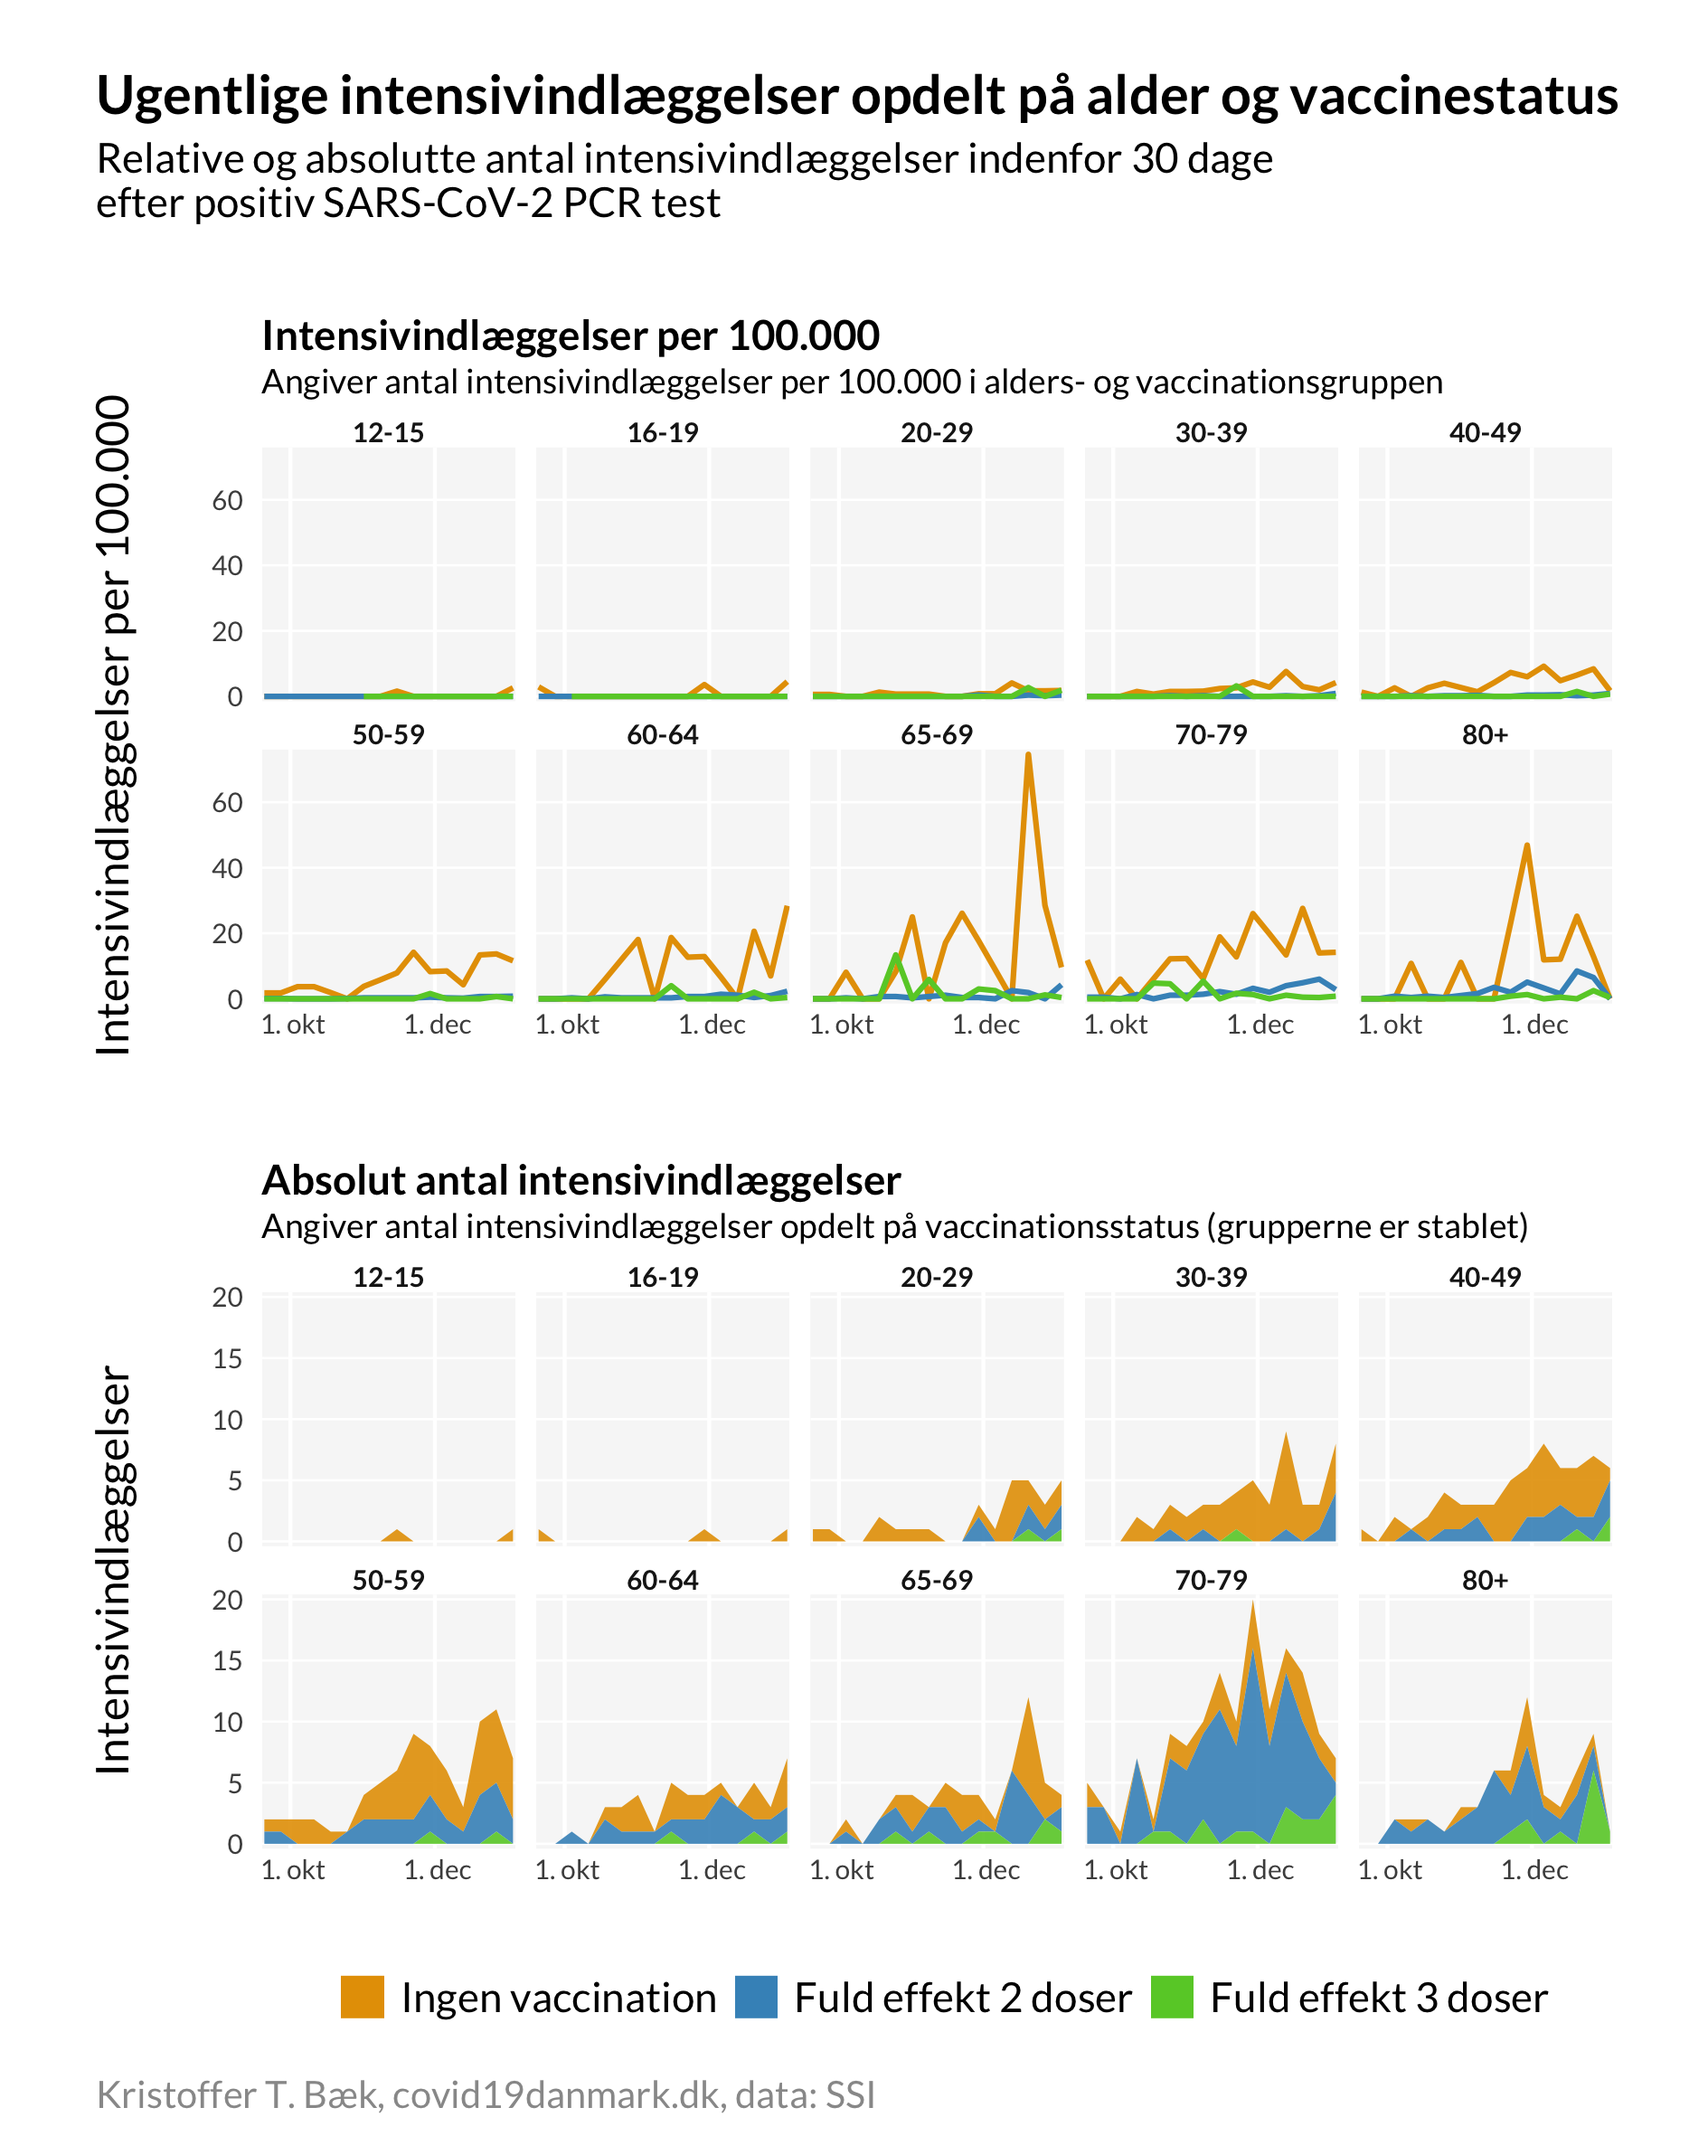
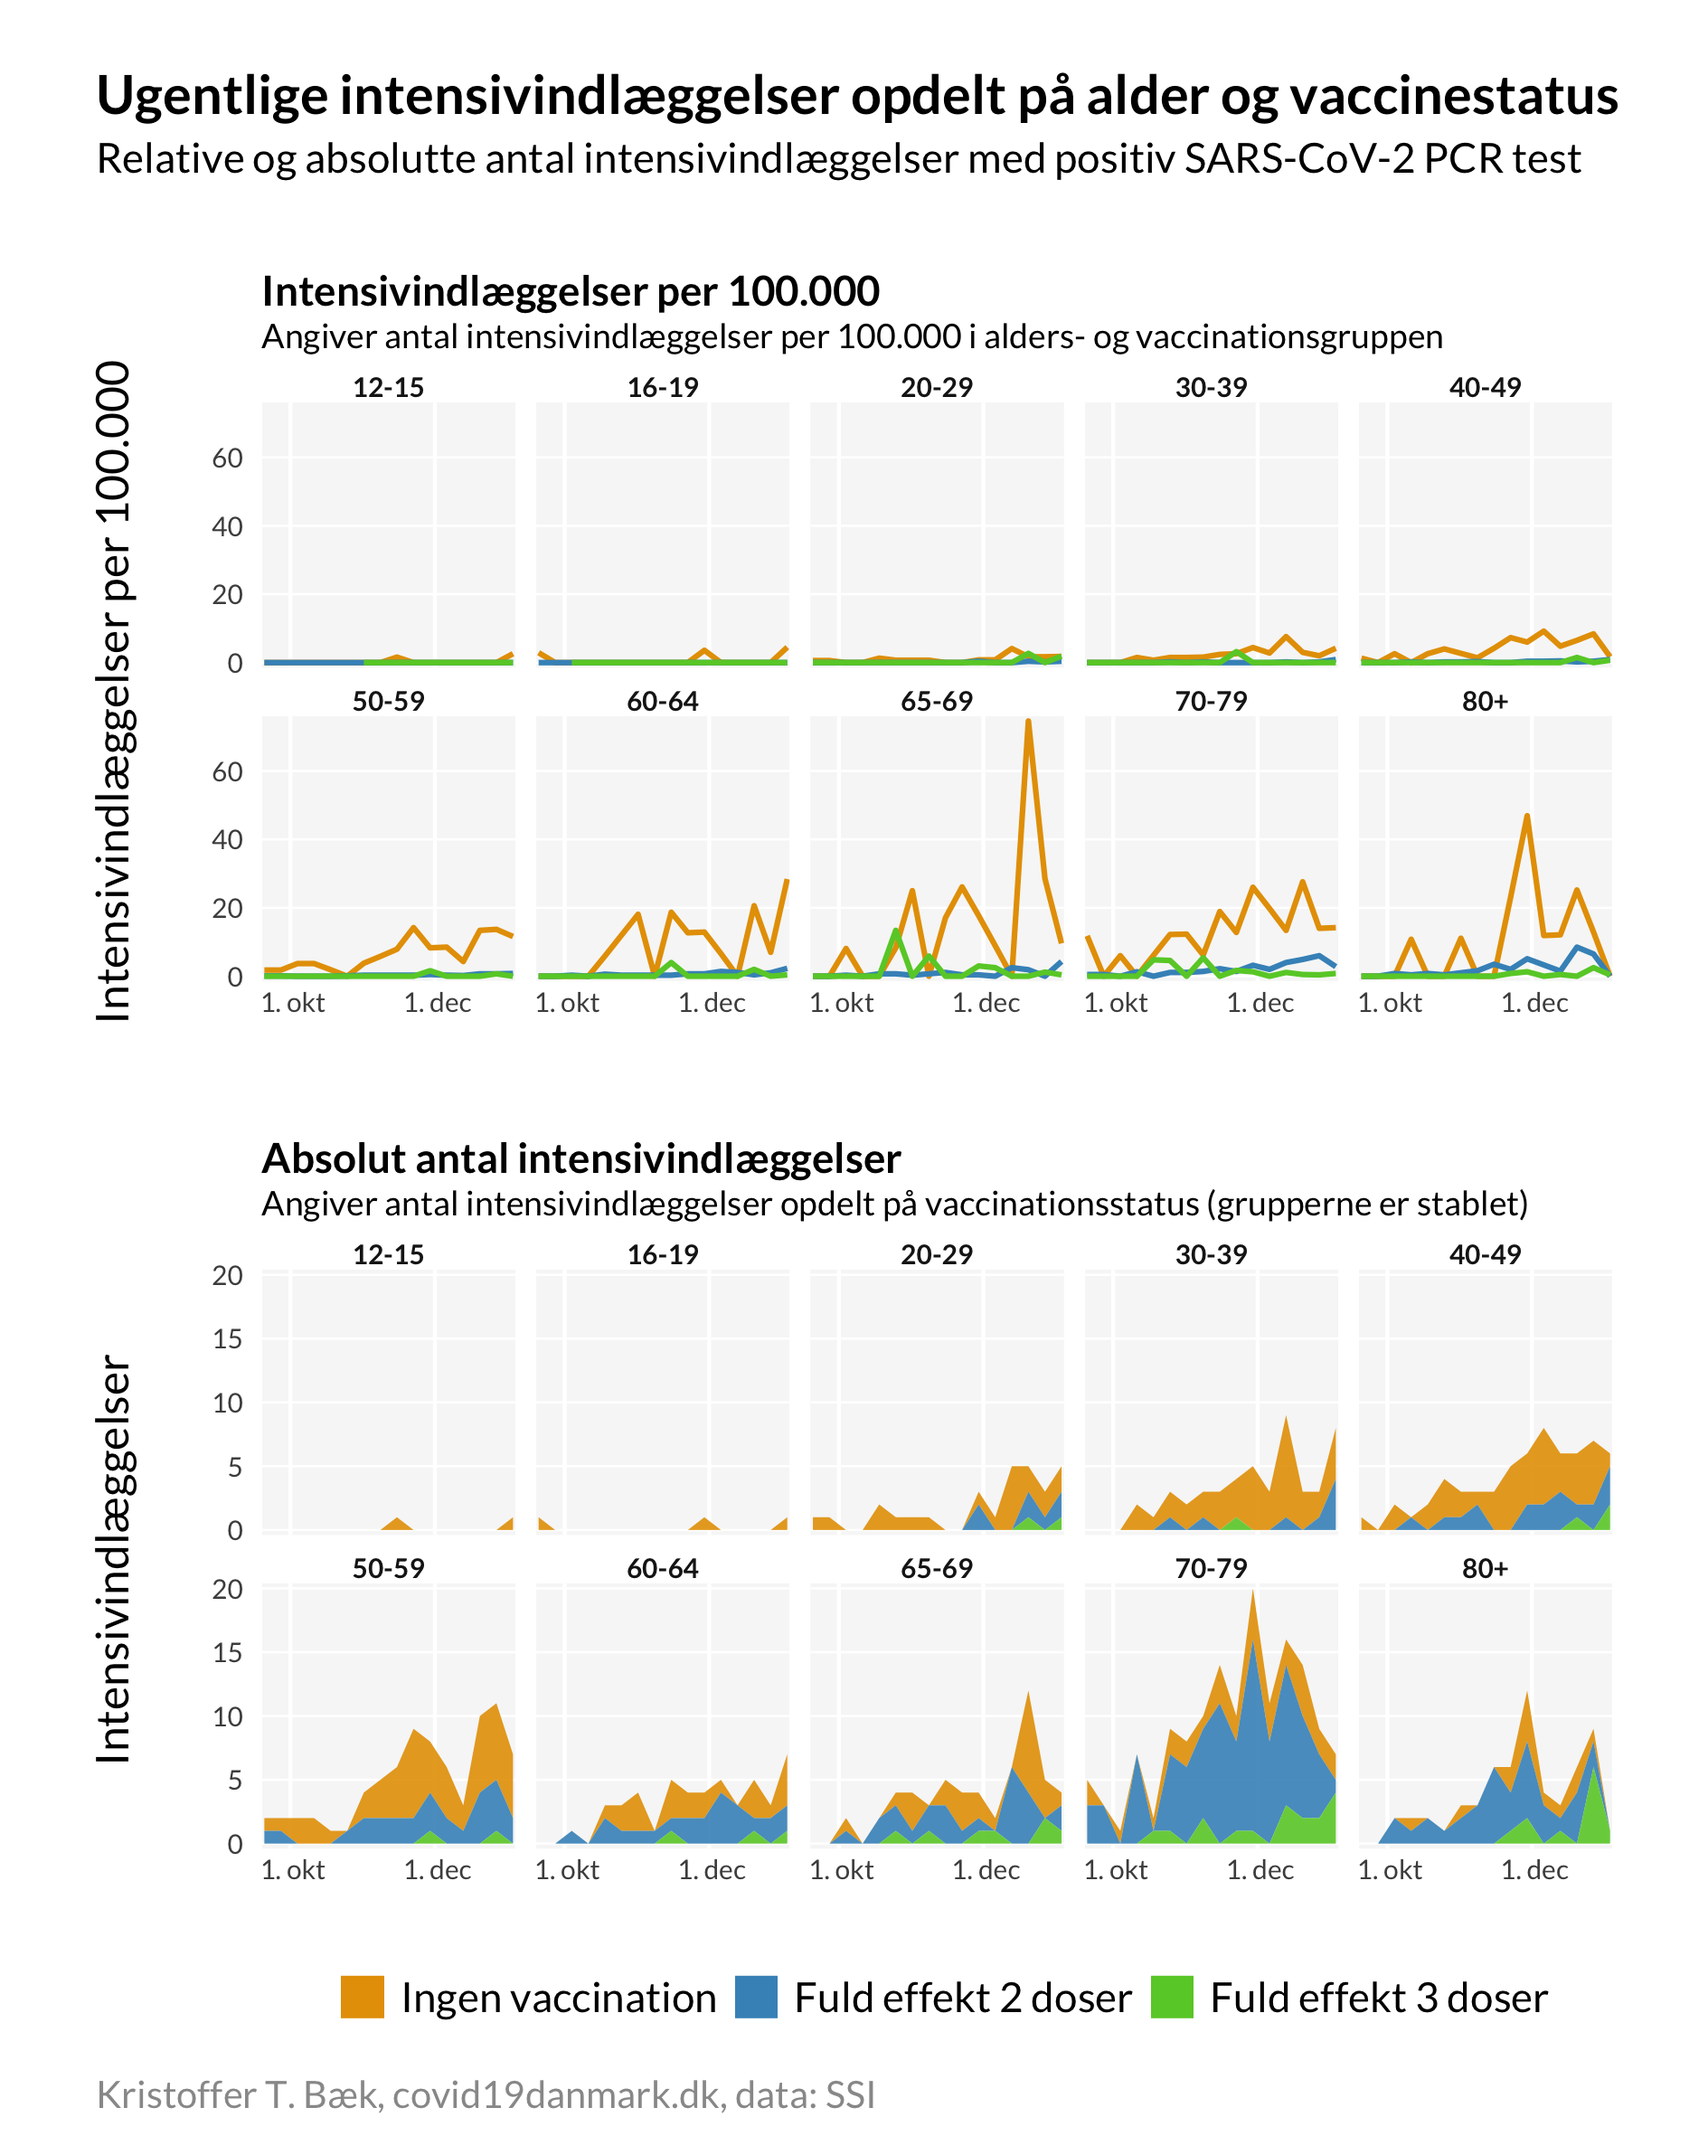
Update plots

diff --git a/index.md b/index.md
@@ -238,7 +238,7 @@ Det øverste plot viser antal PCR testede per 100.000 (i alders- og immunitetsgr
 
 ### Indlagte og døde opdelt på vaccinationsstatus
 
-Plottene viser det ugentlige antal indlæggelser og døde per 100.000 (i alders- og vaccinationsgruppen) og i absolutte tal. Kun personer som ikke tidligere har testet positiv indgår. "Fuld effekt" definerer SSI som 14 dage efter modtaget dose. Datoerne angiver mandagen i hver uge. Bemærk at en indlæggelse i disse plots er defineret som en indlæggelse indenfor **30 dage** efter en positiv test (i modsætning til de øvrige data over indlæggelser hvor risikotiden er 14 dage efter en positiv test). Grupper der ikke er inkluderet: personer der har modtaget én dosis (første vaccination) og personer der har modtaget 2 doser, men endnu ikke har opnået fuld effekt.
+Plottene viser det ugentlige antal indlæggelser og døde per 100.000 (i alders- og vaccinationsgruppen) og i absolutte tal. Kun personer som ikke tidligere har testet positiv indgår. "Fuld effekt" definerer SSI som 14 dage efter modtaget dose. Datoerne angiver mandagen i hver uge. Grupper der ikke er inkluderet: personer der har modtaget én dosis (første vaccination) og personer der har modtaget 2 doser, men endnu ikke har opnået fuld effekt.
 
 Vaccinestatus er defineret ud fra tidspunktet for den positive test, ikke tidspunktet for indlæggelse eller død.
 
